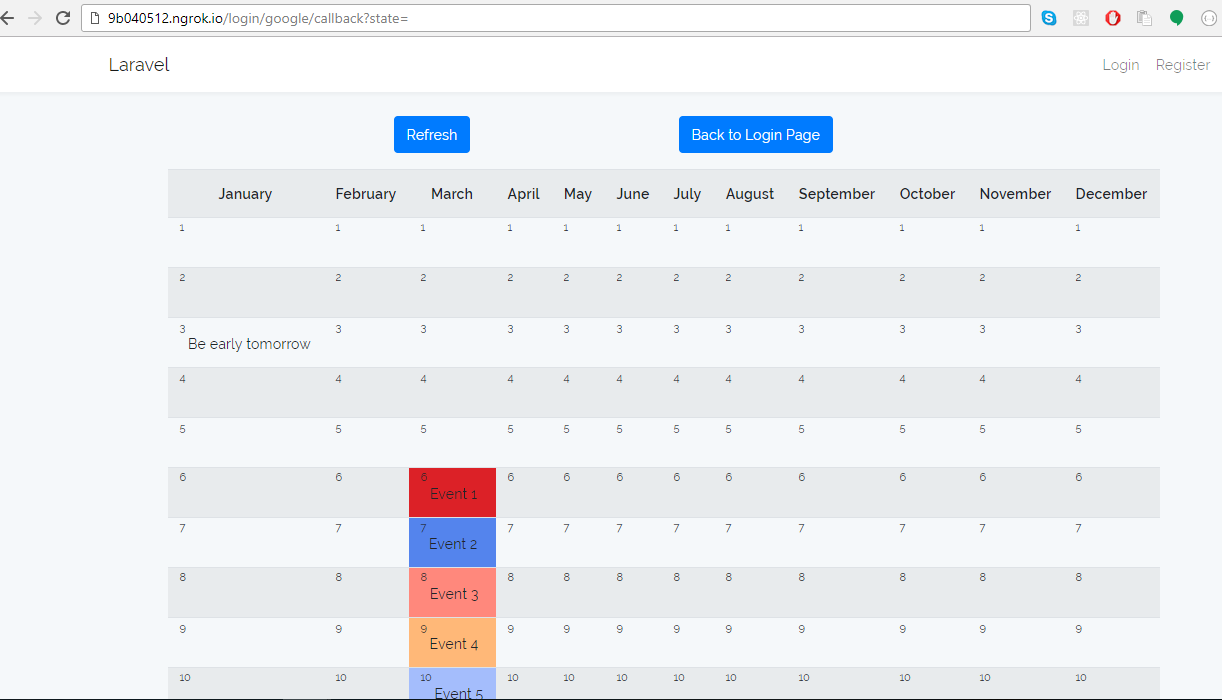
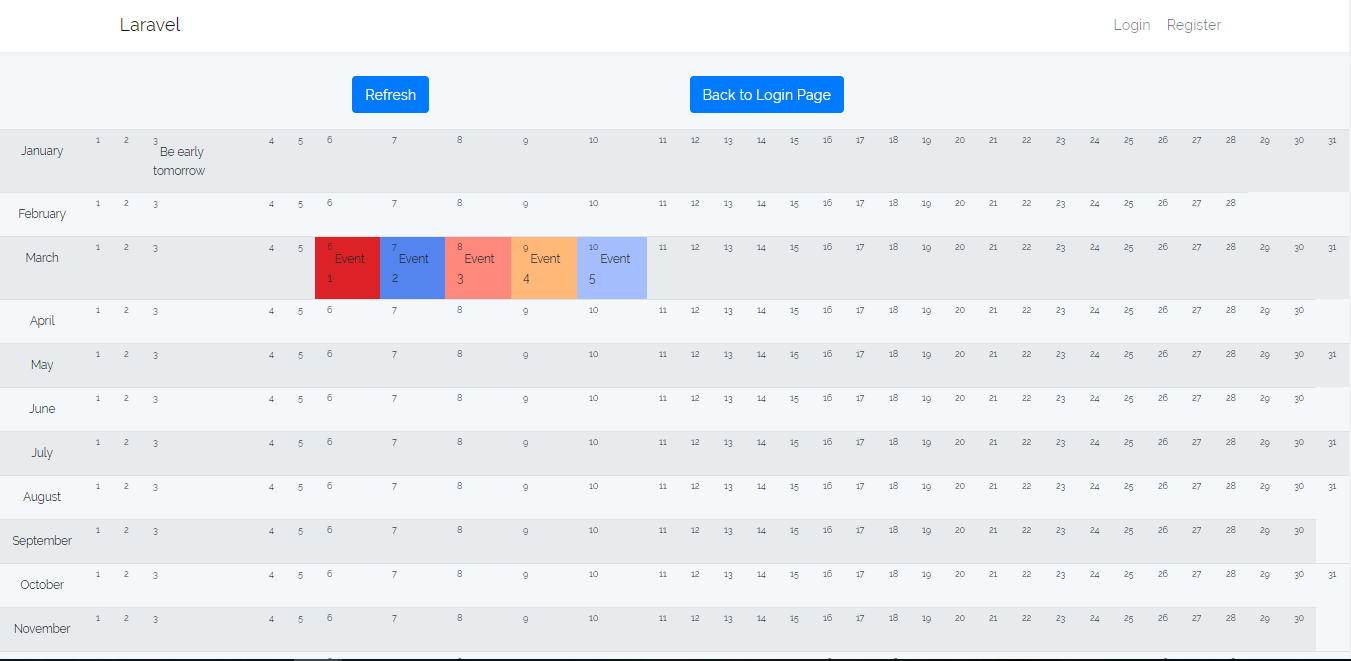
Changed view calendar order and readme.md image

diff --git a/resources/views/calendar.blade.php b/resources/views/calendar.blade.php
@@ -1,7 +1,7 @@
 @extends('layouts.app')
 
 @section('content')
-<div class="container">
+<div class="container-fluid">
     <div class="row justify-content-center" style="margin-bottom: 1rem">
         <div class="col-sm-3 justify-content-center">
             <a href="{{ route('google-login') }}" class="btn btn-primary">Refresh</a>
@@ -11,20 +11,18 @@
         </div>
     </div>
     <div class="row justify-content-center">
-        @foreach($calendarEvents['2018'] as $key => $events)
-            <div class="col-xs-1">
-                <table class="table table-striped">
+        <div class="col-xs-12 small">
+            <table class="table table-striped">
+                @foreach($calendarEvents['2018'] as $key => $events)
                     <tr>
-                        <th class="text-center">{{ $key }}</th>
-                    </tr>
-                    @foreach($events as $key => $event)
-                        <tr>
+                        <td class="text-center">{{ $key }}</td>
+                        @foreach($events as $key => $event)
                             <td @if(isset($event['color'])) style="background-color: {{ $event['color'] }}" @endif><sup class="text-left align-text-top">{{$key }} </sup><span class="text-center align-middle">{{ isset($event['summary']) ? $event['summary'] : '' }}</span></td>
-                        </tr>
-                    @endforeach
-                </table>
-            </div>
-        @endforeach
+                        @endforeach
+                    </tr>
+                @endforeach
+            </table>
+        </div>
     </div>
 </div>
 @endsection
